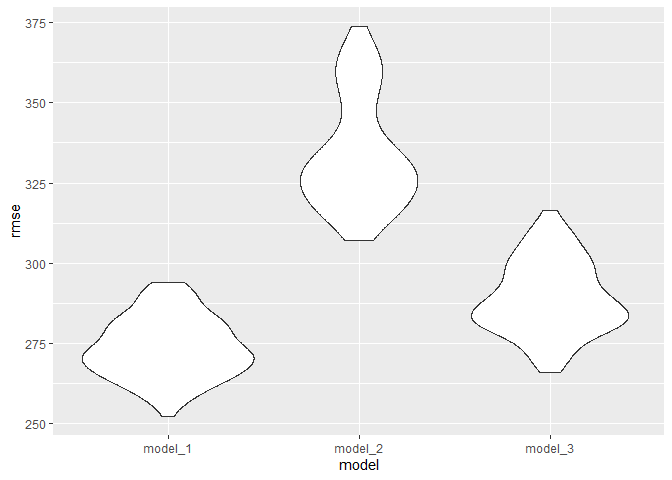
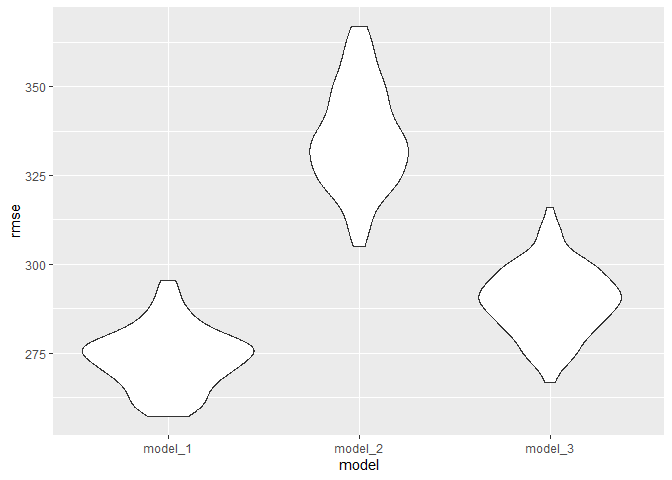
finished Q3

diff --git a/p8105_hw6_pm3260.md b/p8105_hw6_pm3260.md
@@ -85,25 +85,7 @@ homicide_cities =
                   select(OR, conf.low, conf.high))) |>
   unnest(or_city) |>
   select(city_state, OR, conf.low, conf.high)
-
-print(homicide_cities)
 ```
-
-    ## # A tibble: 47 × 4
-    ## # Groups:   city_state [47]
-    ##    city_state         OR conf.low conf.high
-    ##    <chr>           <dbl>    <dbl>     <dbl>
-    ##  1 Albuquerque, NM 1.77     0.831     3.76 
-    ##  2 Atlanta, GA     1.00     0.684     1.46 
-    ##  3 Baltimore, MD   0.426    0.325     0.558
-    ##  4 Baton Rouge, LA 0.381    0.209     0.695
-    ##  5 Birmingham, AL  0.870    0.574     1.32 
-    ##  6 Boston, MA      0.674    0.356     1.28 
-    ##  7 Buffalo, NY     0.521    0.290     0.935
-    ##  8 Charlotte, NC   0.884    0.557     1.40 
-    ##  9 Chicago, IL     0.410    0.336     0.501
-    ## 10 Cincinnati, OH  0.400    0.236     0.677
-    ## # ℹ 37 more rows
 
 ### Plot of Adjusted OR and 95% CI for Solved Homicides by Sex by City
 
@@ -156,7 +138,7 @@ birthweight_df =
                      labels = c("Absent", "Present")))
 ```
 
-#### Regression
+#### Regression Model:
 
 ``` r
 fit_1 =
@@ -195,6 +177,8 @@ The process involved starting with a full model and removing the
 variable with the highest p-value above 0.05 and then rerunning the
 regression model until all the variables had p-values under 0.05.
 
+#### Residual Plot:
+
 ``` r
 birthweight_df =
   birthweight_df |>
@@ -210,16 +194,20 @@ ggplot(birthweight_df, aes(x = pred, y = resid)) +
   theme_minimal()
 ```
 
-    ## `geom_smooth()` using formula = 'y ~ x'
-
 ![](p8105_hw6_pm3260_files/figure-gfm/residuals-1.png)<!-- -->
+
+The residuals plot shows the data points spread around zero, which is
+idicative of goodness of fit for this model. However, there are a few
+outliers.
 
 ### Comparison with other models:
 
 ``` r
-fit_2 = lm(bwt ~ blength + gaweeks, data = birthweight_df)
+fit_2 = 
+  lm(bwt ~ blength + gaweeks, data = birthweight_df)
 
-fit_3 = lm(bwt ~ bhead * blength * babysex, data = birthweight_df)
+fit_3 = 
+  lm(bwt ~ bhead * blength * babysex, data = birthweight_df)
 ```
 
 #### Cross validation:
@@ -242,14 +230,7 @@ cv_res_df =
     rmse_model_2 = map2_dbl(fit_2, test, rmse),
     rmse_model_3 = map2_dbl(fit_3, test, rmse)
   )
-```
 
-    ## Warning: There was 1 warning in `mutate()`.
-    ## ℹ In argument: `rmse_model_1 = map2_dbl(fit_1, test, rmse)`.
-    ## Caused by warning in `predict.lm()`:
-    ## ! prediction from rank-deficient fit; attr(*, "non-estim") has doubtful cases
-
-``` r
 cv_res_df |> 
   select(starts_with("rmse")) |> 
   pivot_longer(
@@ -257,8 +238,22 @@ cv_res_df |>
     names_to = "model", 
     values_to = "rmse",
     names_prefix = "rmse_") |> 
-  mutate(model = fct_inorder(model)) |> 
+  mutate(
+    model = fct_inorder(model)) |> 
   ggplot(aes(x = model, y = rmse)) + geom_violin()
 ```
 
-![](p8105_hw6_pm3260_files/figure-gfm/unnamed-chunk-2-1.png)<!-- -->
+![](p8105_hw6_pm3260_files/figure-gfm/crossv-1.png)<!-- -->
+
+With the cross validation prediction error, we compared the three linear
+models. We can see that the first model has a much lower RMSE, meaning
+that the model’s predictions are closer to the actual observed values,
+on average.
+
+It reflects better accuracy and suggests that the model is performing
+well at capturing the relationship between the predictors and the
+response variable.
+
+However, this could be because the model that I proposed has a lot of
+variables. The second most accurate model is model 3, the one with the
+interaction terms.
